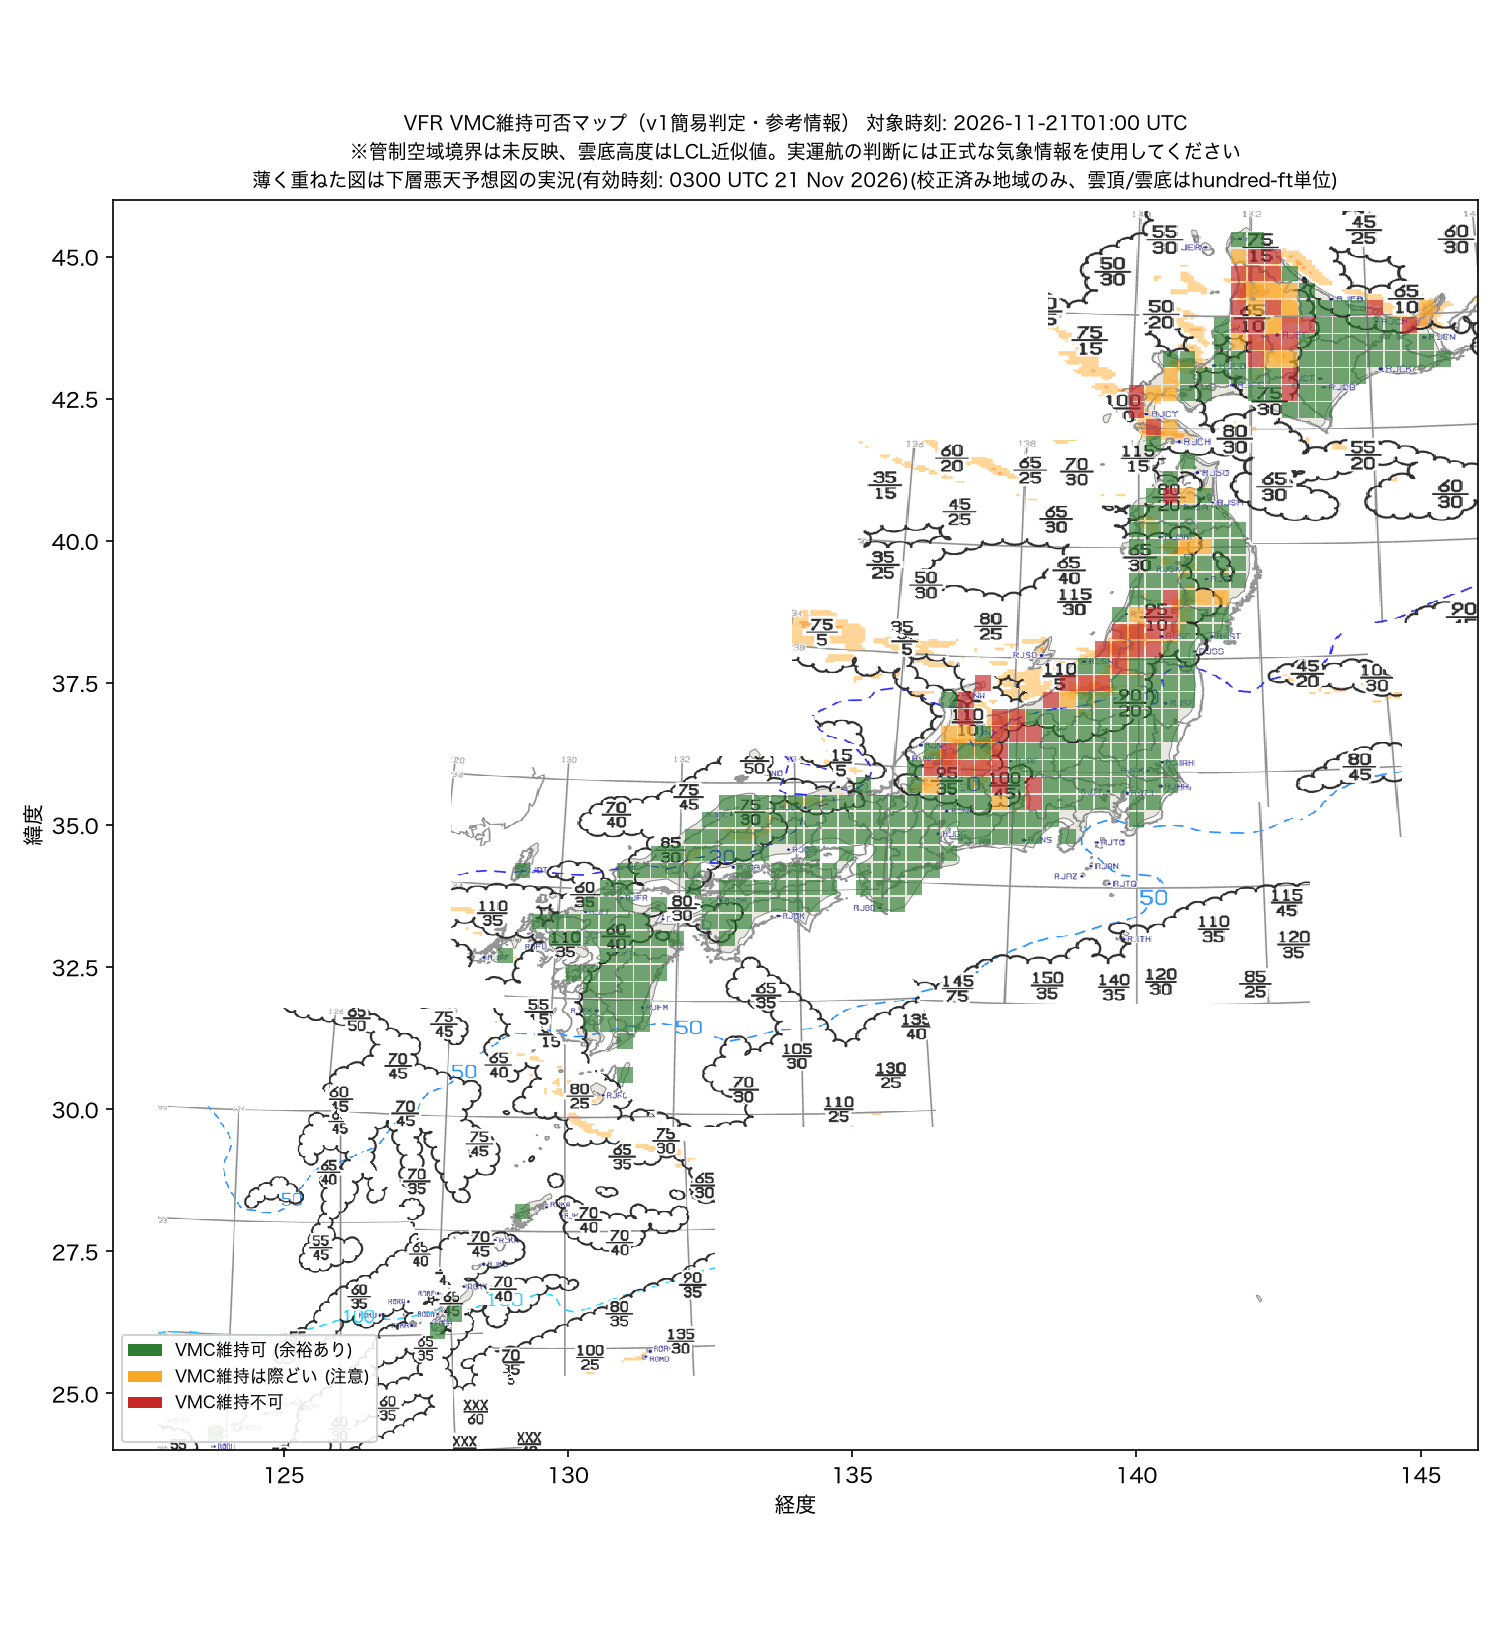
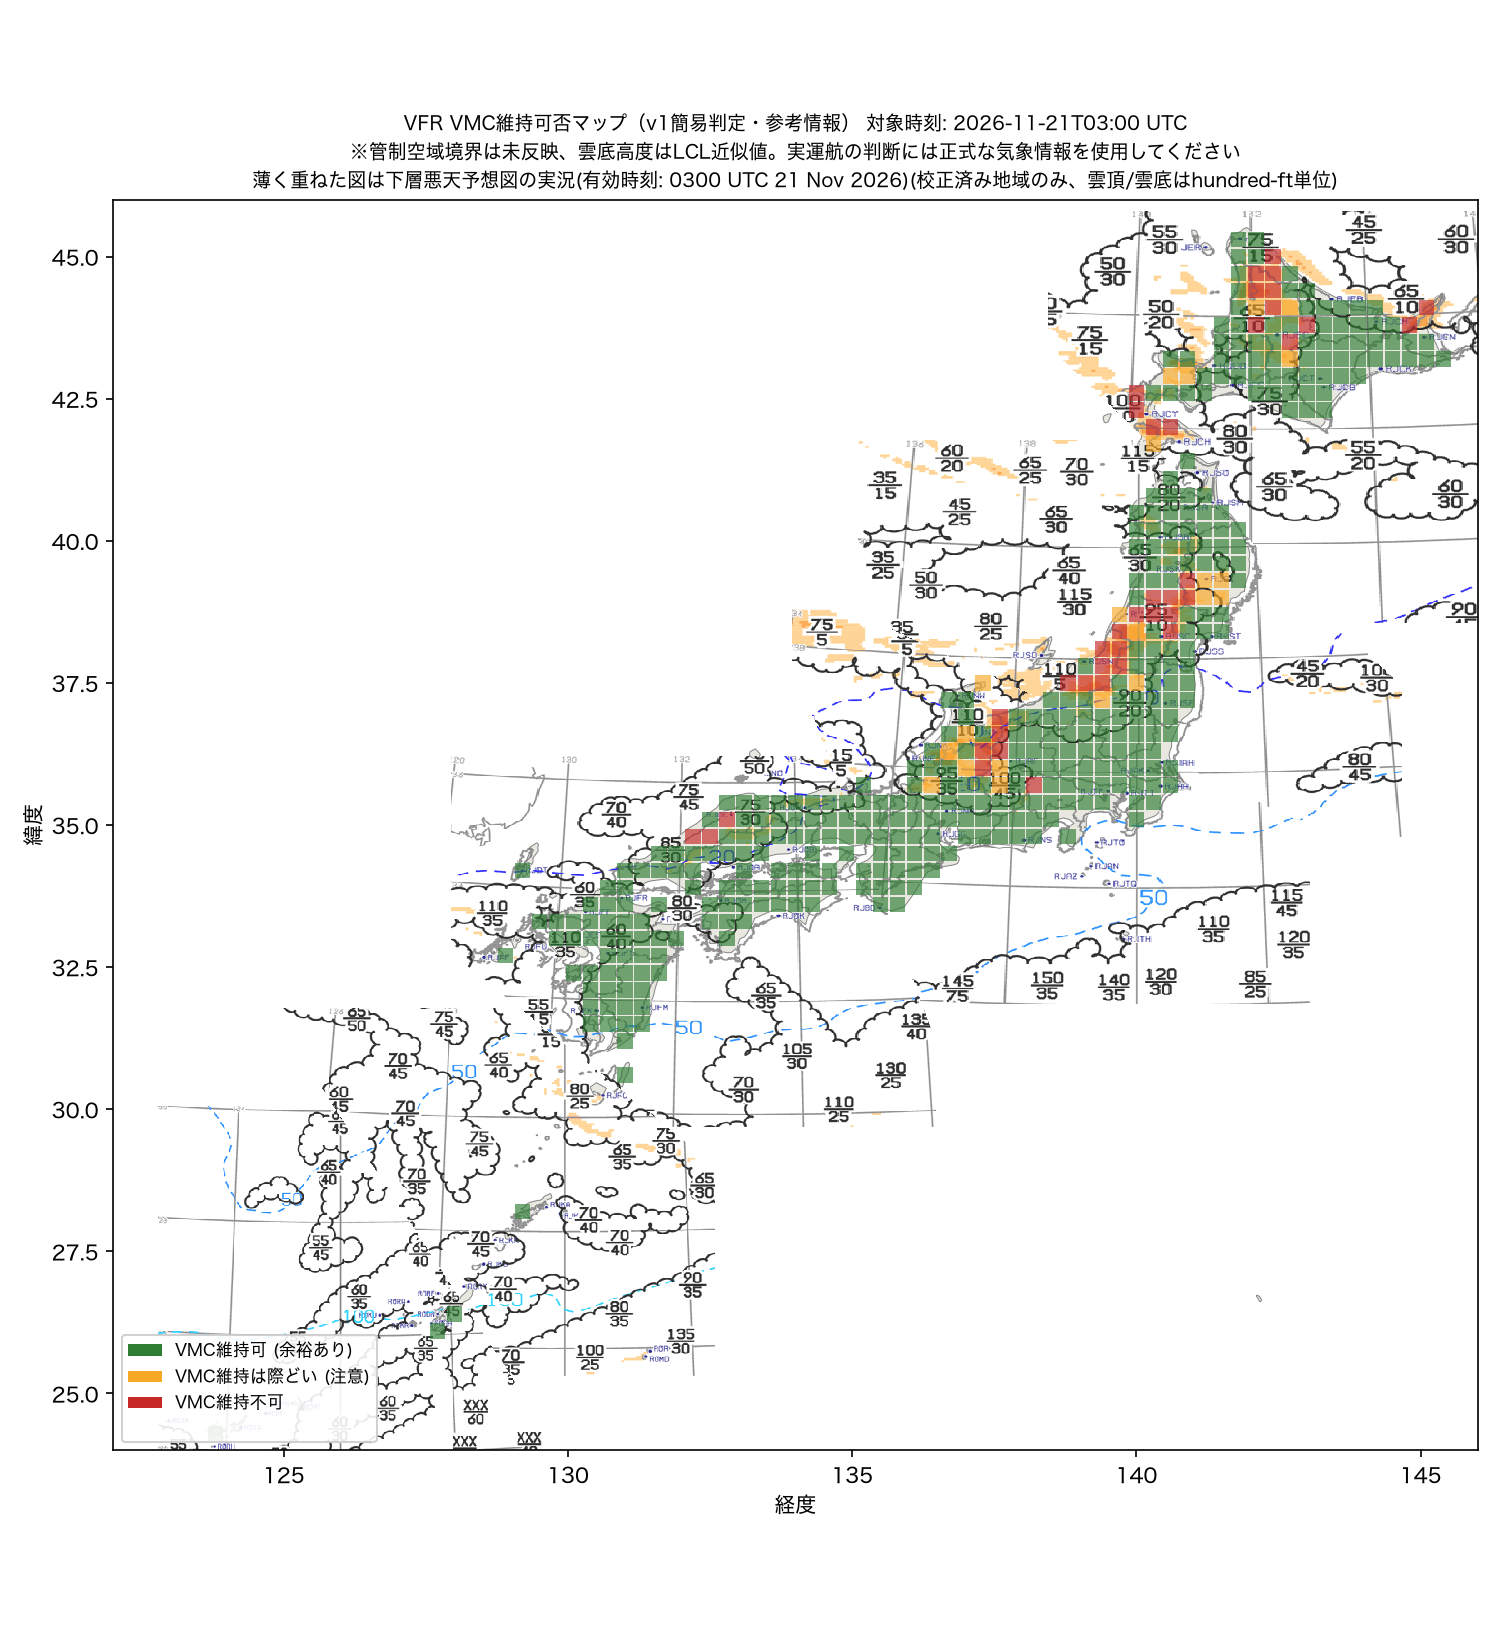
Update VMC map

diff --git a/index.html b/index.html
@@ -3,7 +3,7 @@
 <head>
 <meta charset="utf-8">
 <meta name="viewport" content="width=device-width, initial-scale=1">
-<title>VFR VMC 維持可否マップ (対象時刻: 2026-11-21T01:00 UTC)</title>
+<title>VFR VMC 維持可否マップ (対象時刻: 2026-11-21T03:00 UTC)</title>
 <style>
   :root {
     --bg: #eef1f5; --surface: #ffffff; --text: #1b2530; --text-muted: #5b6b7d;
@@ -109,7 +109,7 @@
     <h1>VFR VMC 維持可否マップ</h1>
     <p class="subtitle">日本全国、地形と雲底の隙間からVMC(視認気象状態)を維持できるかを判定した参考マップです。v1簡易判定につき、実運航の判断には正式な気象情報を使用してください。</p>
     <div class="chips">
-      <span class="chip">気象予報 対象時刻 <b>2026-11-21T01:00 UTC</b></span>
+      <span class="chip">気象予報 対象時刻 <b>2026-11-21T03:00 UTC</b></span>
       <span class="chip">下層悪天予想図 有効時刻 <b>0300 UTC 21 Nov 2026</b></span>
     </div>
     <div class="refresh-row">
